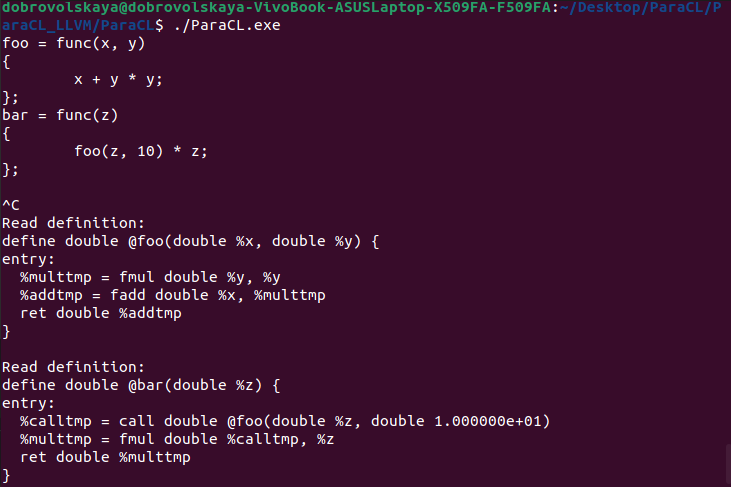
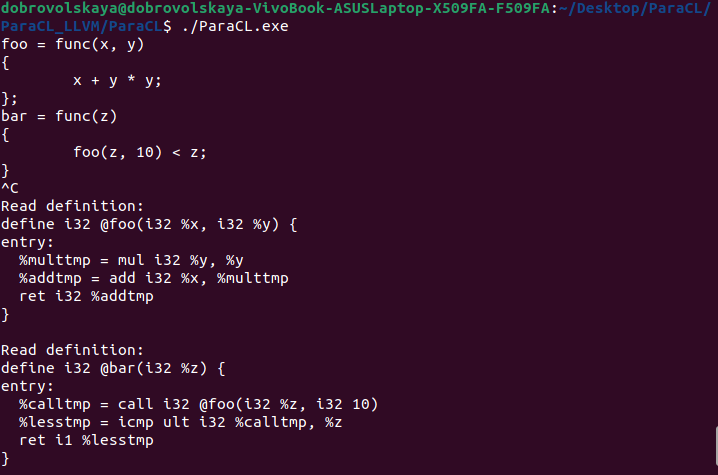
change double to int32

diff --git a/ParaCL_LLVM/definitions/Lex_methods.cpp b/ParaCL_LLVM/definitions/Lex_methods.cpp
@@ -224,7 +224,8 @@ int Function::calculate(std::istream &istr, std::ostream &ostr) const
 
 llvm::Value *Value::codegen()
 {
-	return llvm::ConstantFP::get(*TheContext, llvm::APFloat(static_cast<double>(this->get_data())));
+	const llvm::APInt value(32, this->get_data(), true);
+	return llvm::ConstantInt::get(*TheContext, value);
 }
 
 
@@ -247,10 +248,12 @@ llvm::Value *Negation::codegen()
 {
 	std::cout << "Codegen negation\n";
 	
-	llvm::Value *left = llvm::ConstantFP::get(*TheContext, llvm::APFloat(0.0));
+	const llvm::APInt zero(32, 0, true);
+	
+	llvm::Value *left = llvm::ConstantInt::get(*TheContext, zero);
   	llvm::Value *right = rhs_->codegen();
 	
-	return Builder->CreateFSub(left, right, "subtmp");;
+	return Builder->CreateSub(left, right, "subtmp");;
 }
 
 #if 0
@@ -329,8 +332,10 @@ llvm::Value *Function::codegen()
 
 llvm::Value *UnOp::codegen()
 {
+	const llvm::APInt one(32, 1, true);
+	
 	llvm::Value *left = lhs_->codegen();
-  	llvm::Value *right = llvm::ConstantFP::get(*TheContext, llvm::APFloat(1.0));
+	llvm::Value *right = llvm::ConstantInt::get(*TheContext, one);
 
   	if (!left || !right) 
   	{
@@ -340,9 +345,9 @@ llvm::Value *UnOp::codegen()
 	switch (this->get_data())
 	{
 		case Statements_t::INC:
-			return Builder->CreateFAdd(left, right, "addtmp");
+			return Builder->CreateAdd(left, right, "addtmp");
 		case Statements_t::DEC:
-			return Builder->CreateFSub(left, right, "subtmp");
+			return Builder->CreateSub(left, right, "subtmp");
 	}
 			
 	throw_exception("Error: it is not clear what is in function \"UnOp::Codegen\"\n", this->get_num());
@@ -364,17 +369,17 @@ llvm::Value *BinOp::codegen()
 	switch (this->get_data())
 	{
 		case BinOp_t::ADD:
-			return Builder->CreateFAdd(left, right, "addtmp");
+			return Builder->CreateAdd(left, right, "addtmp");
 		case BinOp_t::SUB:
-			return Builder->CreateFSub(left, right, "subtmp");
+			return Builder->CreateSub(left, right, "subtmp");
 		case BinOp_t::MULT:
-			return Builder->CreateFMul(left, right, "multtmp");
+			return Builder->CreateMul(left, right, "multtmp");
 		// case BinOp_t::DIV:
 		// 	if (right == 0)
 		// 	{
 		// 		throw_exception("Division by zero\n", this->get_num());
 		// 	}
-		// 	return left / right;
+		// 	return Builder->CreateDiv(left, right, "divtmp");
 	}
 
 	throw_exception("Error: it is not clear what is in function \"BinOp::Codegen\"\n", this->get_num());
@@ -392,12 +397,11 @@ llvm::Value *CompOp::codegen()
   		throw_exception("Non-existing operand\n", this->get_num());
   	};
 
-	left = Builder->CreateFCmpULT(left, right, "cmptmp");
-
 	switch (this->get_data())
 	{
 		case CompOp_t::LESS:
-			return Builder->CreateUIToFP(left, llvm::Type::getDoubleTy(*TheContext), "lesstmp");
+			return Builder->CreateICmpULT(left, right, "lesstmp");
+
 		// case CompOp_t::GREATER:
 		// 	return left > right;
 		// case CompOp_t::LESorEQ:

diff --git a/ParaCL_LLVM/ParaCL/main.cpp b/ParaCL_LLVM/ParaCL/main.cpp
@@ -6,14 +6,13 @@ void print_lex_array(std::vector<std::shared_ptr<Lex_t>> &lex_array);
 void print_prog_elems(std::vector<std::shared_ptr<Statement>> prog);
 void build_sintax_graph(std::vector<std::shared_ptr<Statement>> prog);
 
-//`llvm-config --cxxflags --ldflags --system-libs --libs core`
 
 static void HandleArithmetic(std::shared_ptr<Statement> elem)
 {
 	Lex_t &node = elem->get_lhs();
 	auto *func = node.codegen();
     
-    std::cout << "Read top-level expression:\n";
+    std::cout << "Read Arithmetic:\n";
     func->print(llvm::errs());
     std::cout << "\n";
 }
@@ -48,10 +47,6 @@ int main(int argc, char const *argv[])
 		const std::vector<std::shared_ptr<Statement>> stmts = static_cast<Scope*>(prog.get())->get_lhs();
 
 		//--------------------------------------------------------------------
-		
-		TheContext = std::make_unique<llvm::LLVMContext>();
-		TheModule = std::make_unique<llvm::Module>("ParaCL", *TheContext);
-		Builder = std::make_unique<llvm::IRBuilder<>>(*TheContext);
 
 		for (auto &elem : stmts)
 		{

diff --git a/ParaCL_LLVM/definitions/Stmt_methods.cpp b/ParaCL_LLVM/definitions/Stmt_methods.cpp
@@ -90,13 +90,18 @@ int Declaration::run_stmt(std::istream &istr, std::ostream &ostr) const
 llvm::Function *Declaration::codegen()
 {
 	std::string decl_name = funcs[func_->get_data()];
-	std::vector<llvm::Type *> Doubles(vars_.size(), llvm::Type::getDoubleTy(*TheContext));
+	std::vector<llvm::Type *> Ints(vars_.size(), llvm::Type::getInt32Ty(*TheContext));
   	
   	llvm::FunctionType *FuncType =
-      llvm::FunctionType::get(llvm::Type::getDoubleTy(*TheContext), Doubles, false);
+      llvm::FunctionType::get(llvm::Type::getInt32Ty(*TheContext), Ints, false);
 
 
   	llvm::Function *Func = llvm::Function::Create(FuncType, llvm::Function::ExternalLinkage, decl_name, TheModule.get());
+
+  	if (!(Func->empty()))
+  	{
+  		throw_exception("Redefinition of function\n", func_->get_num() - 1);
+  	}
 
   	int size = vars_.size();
 

diff --git a/ParaCL_LLVM/definitions/Global_vars.cpp b/ParaCL_LLVM/definitions/Global_vars.cpp
@@ -21,8 +21,7 @@ std::vector<std::shared_ptr<Lex_t>> lex_array;
 class Statement;
 std::unordered_map<std::string, std::shared_ptr<Statement>> FUNCTIONS;
 
-std::unique_ptr<llvm::Module> TheModule;
-std::unique_ptr<llvm::IRBuilder<>> Builder;
-std::unique_ptr<llvm::LLVMContext> TheContext;
+std::shared_ptr<llvm::LLVMContext> TheContext = std::make_shared<llvm::LLVMContext>();
+std::shared_ptr<llvm::Module> TheModule = std::make_shared<llvm::Module>("ParaCL", *TheContext);
+std::shared_ptr<llvm::IRBuilder<>> Builder = std::make_shared<llvm::IRBuilder<>>(*TheContext);
 std::map<std::string, llvm::Value*> NamedValues;
-

diff --git a/ParaCL_LLVM/include/Lexer.hpp b/ParaCL_LLVM/include/Lexer.hpp
@@ -34,9 +34,9 @@ extern bool EoF;
 extern std::vector<std::string> vars;					//variables appeared in lexical analysis
 extern std::vector<std::string> funcs;
 
-extern std::unique_ptr<llvm::Module> TheModule;
-extern std::unique_ptr<llvm::IRBuilder<>> Builder;
-extern std::unique_ptr<llvm::LLVMContext> TheContext;
+extern std::shared_ptr<llvm::Module> TheModule;
+extern std::shared_ptr<llvm::IRBuilder<>> Builder;
+extern std::shared_ptr<llvm::LLVMContext> TheContext;
 extern std::map<std::string, llvm::Value*> NamedValues;
 
 enum Move { INCREMENT, GET_CURRENT, USE_CURRENT, RESET };
